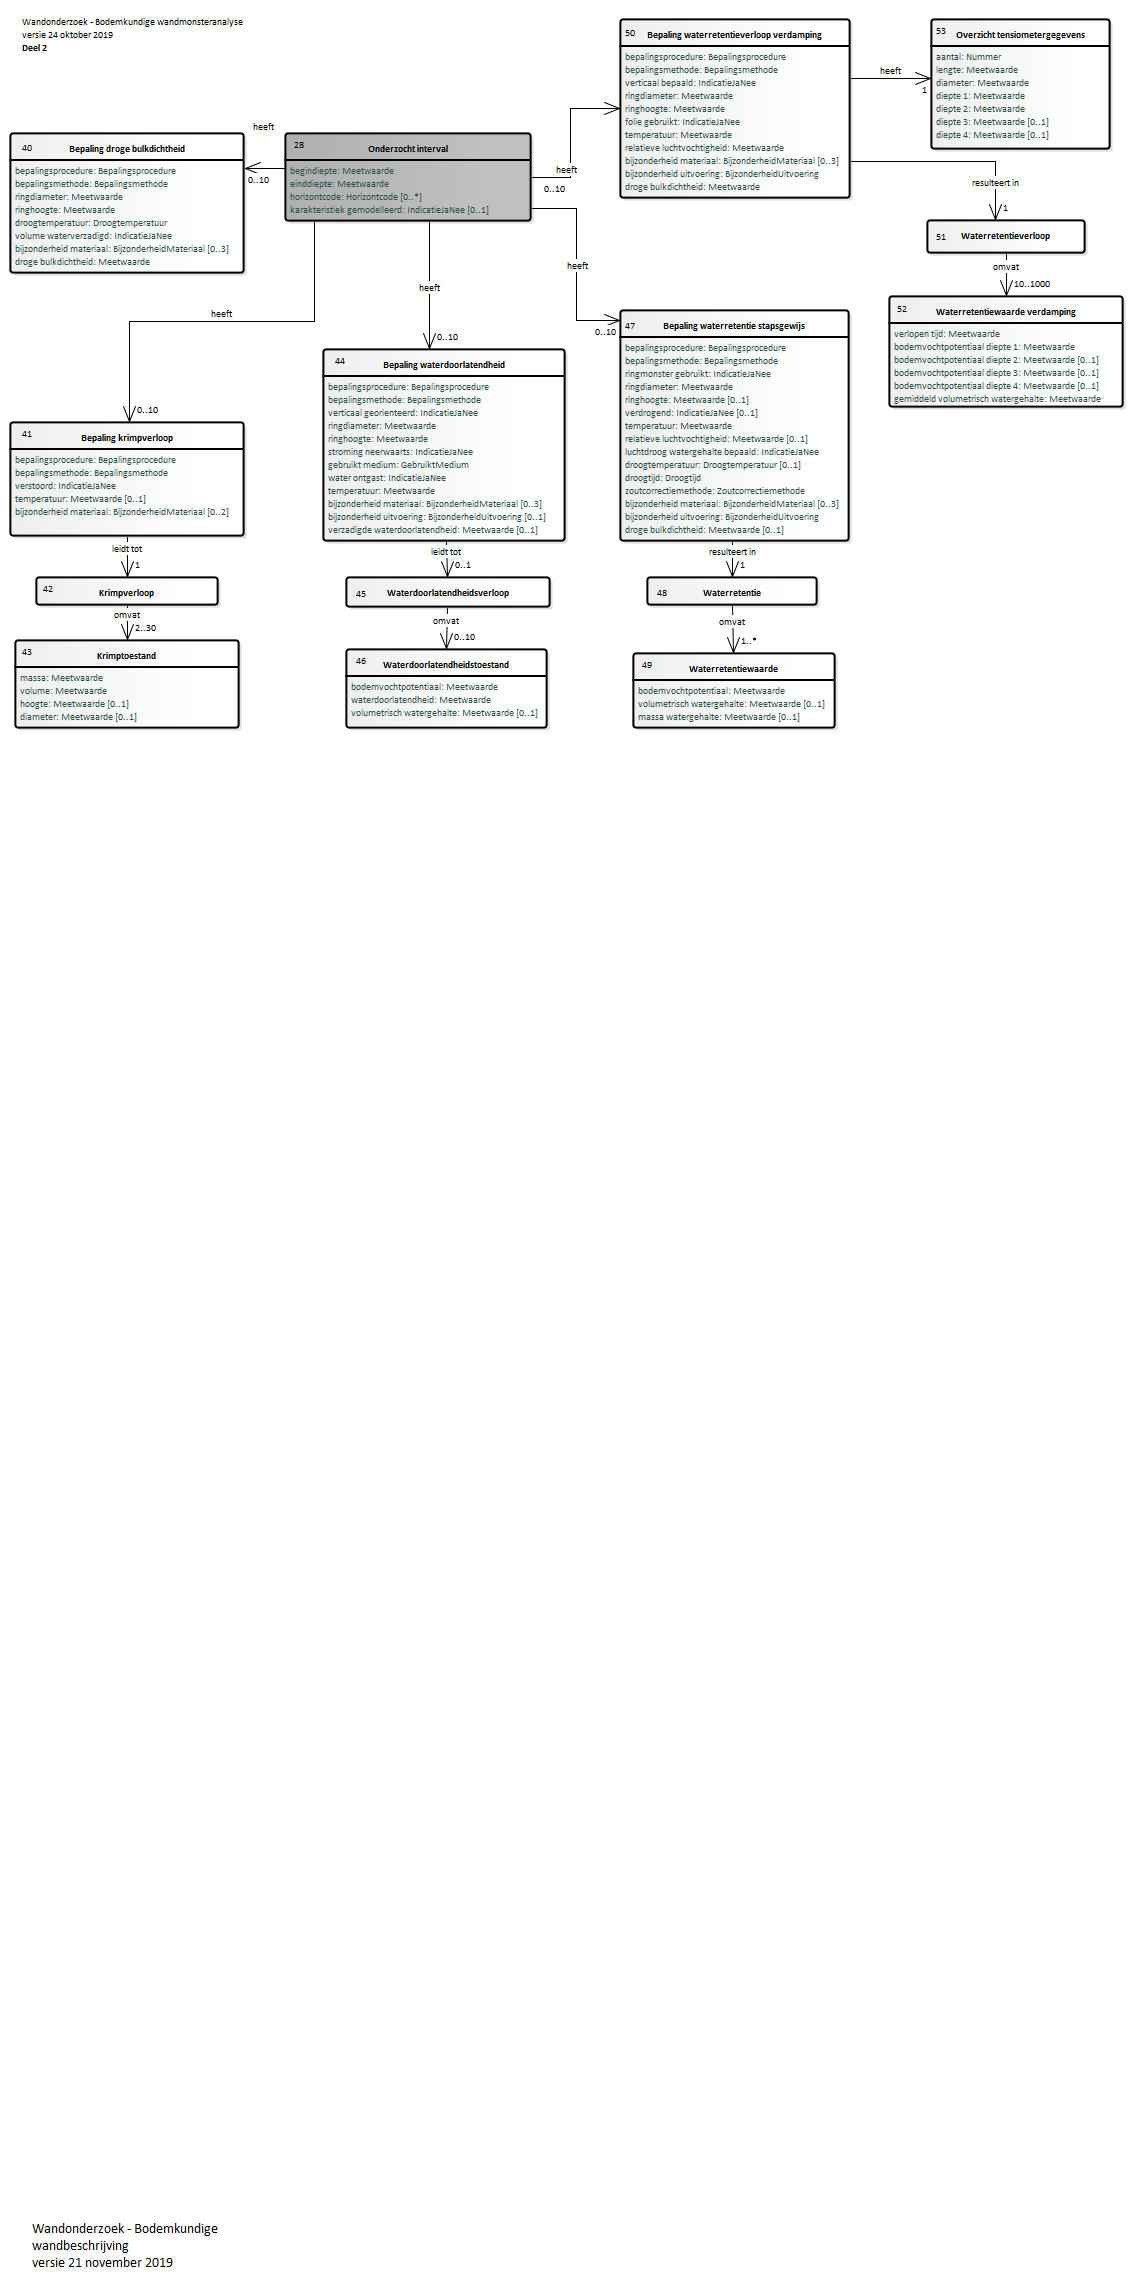
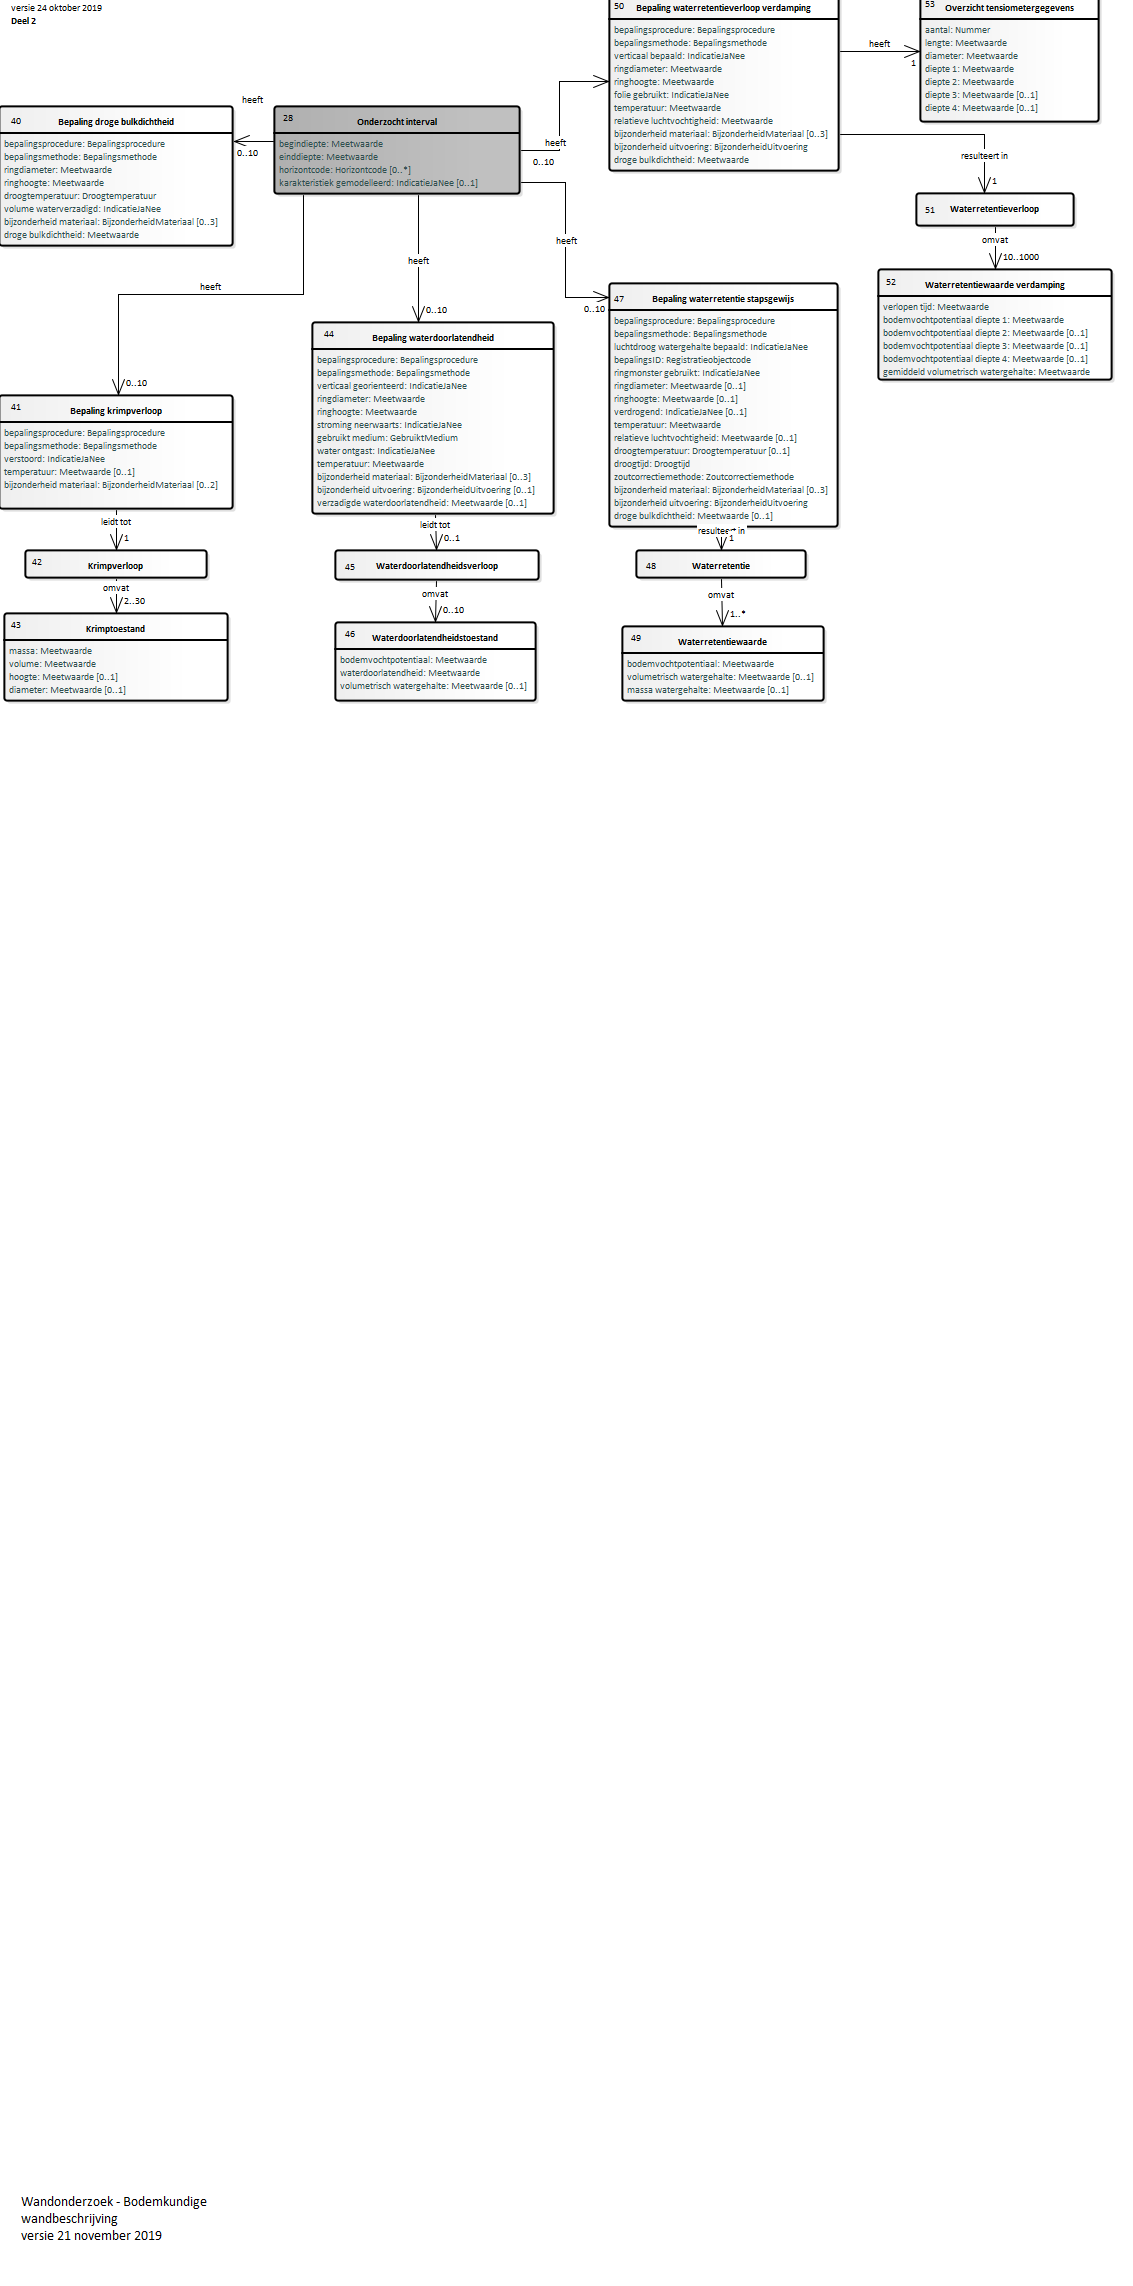
Conceptualmodel-BodemkundigwandonderzoekSFR-1.92versie27nov2019-3-20191127-20200128-182809

diff --git a/data/SFR-cat.msword.html b/data/SFR-cat.msword.html
@@ -13,7 +13,7 @@
    <body>
       <p>Conceptual model/Bodemkundig wandonderzoek (SFR)/20191127</p>
       <p>Imvertor: 1.57.1</p>
-      <p>Model release: Conceptualmodel-BodemkundigwandonderzoekSFR-1.92versie27nov2019-3-20191127-20200127-170755</p>
+      <p>Model release: Conceptualmodel-BodemkundigwandonderzoekSFR-1.92versie27nov2019-3-20191127-20200128-182809</p>
       <hr>
       <section>
          <h1>Artikel 1 Definitie van registratieobject, entiteiten en attributen</h1>
@@ -69,21 +69,21 @@
                </div>
                <div class="imageinfo overview"><img src="Images/EAID_2E9B0773_D299_49e6_BEBA_866A5B1961C2.png" usemap="#imagemap-EAID_2E9B0773_D299_49e6_BEBA_866A5B1961C2" alt="Diagram "><map name="imagemap-EAID_2E9B0773_D299_49e6_BEBA_866A5B1961C2">
                      <area shape="rect" alt="Wandmonsteranalyse" coords="309,-12,454,16" href="#graph_EAID_DC3E6339_1B2C_482c_AB74_881D1281A2EC">
-                     <area shape="rect" alt="Krimptoestand" coords="4,613,228,701" href="#graph_EAID_ABD5754F_2F97_48b5_B6AA_798E8E996A1B">
-                     <area shape="rect" alt="Krimpverloop" coords="25,550,207,578" href="#graph_EAID_368A7E5B_2AC2_4377_898A_204592B121EE">
-                     <area shape="rect" alt="Bepaling krimpverloop" coords="-1,395,240,496" href="#graph_EAID_FE20ED5D_F749_4cbf_A3F0_622FD6CE25DE">
-                     <area shape="rect" alt="Waterdoorlatendheidstoestand" coords="335,622,549,701" href="#graph_EAID_B49C8011_2704_45aa_B634_D2A7C3DBA664">
-                     <area shape="rect" alt="Waterdoorlatendheidsverloop" coords="335,550,539,580" href="#graph_EAID_7E57EB8B_0FFF_4b51_8B5A_AE9275E95298">
-                     <area shape="rect" alt="Waterretentiewaarde" coords="622,626,836,701" href="#graph_EAID_F02CB409_6369_43fa_851D_041176F3D170">
-                     <area shape="rect" alt="Waterretentie" coords="636,550,806,578" href="#graph_EAID_D23C916F_2BD4_4ea8_8084_CD4A129DC709">
-                     <area shape="rect" alt="Overzicht tensiometergegevens" coords="920,-8,1099,122" href="#graph_EAID_C8F6BEB6_3483_4781_A0FC_156AA99B7B0C">
-                     <area shape="rect" alt="Waterretentiewaarde verdamping" coords="878,269,1112,380" href="#graph_EAID_E568963F_D23E_4b85_AE99_F8FF7B47842B">
-                     <area shape="rect" alt="Waterretentieverloop" coords="916,193,1074,226" href="#graph_EAID_2DFF99AA_EEBB_4f93_BFBE_9601B723031A">
-                     <area shape="rect" alt="Bepaling waterretentieverloop verdamping" coords="609,-8,850,171" href="#graph_EAID_49AD3898_158D_47c7_B1AF_C839D2CB7B68">
-                     <area shape="rect" alt="Bepaling waterretentie stapsgewijs" coords="609,283,850,514" href="#graph_EAID_BAE772BD_B71F_4124_98FC_F7EF5E68BCBF">
-                     <area shape="rect" alt="Bepaling waterdoorlatendheid" coords="312,322,554,514" href="#graph_EAID_BCDCEB7C_2766_41e9_9958_35F5860BE49A">
-                     <area shape="rect" alt="Bepaling droge bulkdichtheid" coords="-1,106,240,246" href="#graph_EAID_A1E3A70D_62A1_406f_8D49_F395104462BB">
-                     <area shape="rect" alt="Onderzocht interval" coords="274,106,520,194" href="#graph_EAID_A420FBE3_89CE_466c_875A_7F10AD21E90D"></map><p><b>Domeinmodel BRO SFR Bodemkundige analyses deel 2 1.91</b></p>
+                     <area shape="rect" alt="Krimptoestand" coords="-7,586,217,674" href="#graph_EAID_ABD5754F_2F97_48b5_B6AA_798E8E996A1B">
+                     <area shape="rect" alt="Krimpverloop" coords="14,523,196,551" href="#graph_EAID_368A7E5B_2AC2_4377_898A_204592B121EE">
+                     <area shape="rect" alt="Bepaling krimpverloop" coords="-12,368,229,469" href="#graph_EAID_FE20ED5D_F749_4cbf_A3F0_622FD6CE25DE">
+                     <area shape="rect" alt="Waterdoorlatendheidstoestand" coords="324,595,538,674" href="#graph_EAID_B49C8011_2704_45aa_B634_D2A7C3DBA664">
+                     <area shape="rect" alt="Waterdoorlatendheidsverloop" coords="324,523,528,553" href="#graph_EAID_7E57EB8B_0FFF_4b51_8B5A_AE9275E95298">
+                     <area shape="rect" alt="Waterretentiewaarde" coords="611,599,825,674" href="#graph_EAID_F02CB409_6369_43fa_851D_041176F3D170">
+                     <area shape="rect" alt="Waterretentie" coords="625,523,795,551" href="#graph_EAID_D23C916F_2BD4_4ea8_8084_CD4A129DC709">
+                     <area shape="rect" alt="Overzicht tensiometergegevens" coords="909,-35,1088,95" href="#graph_EAID_C8F6BEB6_3483_4781_A0FC_156AA99B7B0C">
+                     <area shape="rect" alt="Waterretentiewaarde verdamping" coords="867,242,1101,353" href="#graph_EAID_E568963F_D23E_4b85_AE99_F8FF7B47842B">
+                     <area shape="rect" alt="Waterretentieverloop" coords="905,166,1063,199" href="#graph_EAID_2DFF99AA_EEBB_4f93_BFBE_9601B723031A">
+                     <area shape="rect" alt="Bepaling waterretentieverloop verdamping" coords="598,-35,839,144" href="#graph_EAID_49AD3898_158D_47c7_B1AF_C839D2CB7B68">
+                     <area shape="rect" alt="Bepaling waterretentie stapsgewijs" coords="598,256,839,500" href="#graph_EAID_BAE772BD_B71F_4124_98FC_F7EF5E68BCBF">
+                     <area shape="rect" alt="Bepaling waterdoorlatendheid" coords="301,295,543,487" href="#graph_EAID_BCDCEB7C_2766_41e9_9958_35F5860BE49A">
+                     <area shape="rect" alt="Bepaling droge bulkdichtheid" coords="-12,79,229,219" href="#graph_EAID_A1E3A70D_62A1_406f_8D49_F395104462BB">
+                     <area shape="rect" alt="Onderzocht interval" coords="263,79,509,167" href="#graph_EAID_A420FBE3_89CE_466c_875A_7F10AD21E90D"></map><p><b>Domeinmodel BRO SFR Bodemkundige analyses deel 2 1.91</b></p>
                </div>
                <div class="imageinfo overview"><img src="Images/EAID_972A998B_ADB0_41ea_A710_B847F84FEA66.png" usemap="#imagemap-EAID_972A998B_ADB0_41ea_A710_B847F84FEA66" alt="Diagram "><map name="imagemap-EAID_972A998B_ADB0_41ea_A710_B847F84FEA66">
                      <area shape="rect" alt="Wandmonsteranalyse" coords="259,10,505,50" href="#graph_EAID_DC3E6339_1B2C_482c_AB74_881D1281A2EC">
@@ -18058,7 +18058,7 @@
                   <div class="imageinfo "><img src="Images/EAID_CFD7548D_F274_4398_8581_DF0FDD5EEFEB.png" usemap="#imagemap-EAID_CFD7548D_F274_4398_8581_DF0FDD5EEFEB" alt="Diagram "><map name="imagemap-EAID_CFD7548D_F274_4398_8581_DF0FDD5EEFEB">
                         <area shape="rect" alt="Waterretentiewaarde" coords="48,367,212,395" href="#graph_EAID_F02CB409_6369_43fa_851D_041176F3D170">
                         <area shape="rect" alt="Waterretentie" coords="59,290,201,318" href="#graph_EAID_D23C916F_2BD4_4ea8_8084_CD4A129DC709">
-                        <area shape="rect" alt="Bepaling waterretentie stapsgewijs" coords="10,10,250,241" href="#graph_EAID_BAE772BD_B71F_4124_98FC_F7EF5E68BCBF"></map><p><b>Bepaling waterretentie stapsgewijs</b></p>
+                        <area shape="rect" alt="Bepaling waterretentie stapsgewijs" coords="10,10,250,254" href="#graph_EAID_BAE772BD_B71F_4124_98FC_F7EF5E68BCBF"></map><p><b>Bepaling waterretentie stapsgewijs</b></p>
                   </div>
                   <table style="width: 100%;">
                      <colgroup style="width: 30%;"></colgroup>
@@ -18211,6 +18211,103 @@
                      </table>
                      
                   </section>
+                  <section id="detail_attribute_DomeinmodelBROSFR_BepalingWaterretentieStapsgewijs_luchtdroogWatergehalteBepaald">
+                     <h4>  luchtdroog watergehalte bepaald</h4>
+                     
+                     <table style="width: 100%;">
+                        <colgroup style="width: 30%;"></colgroup>
+                        <colgroup style="width: 70%;"></colgroup>
+                        <tbody>
+                           <tr>
+                              <th>Type gegeven</th>
+                              <td>Attribuut van Bepaling waterretentie stapsgewijs</td>
+                           </tr>
+                           <tr>
+                              <th>Definitie</th>
+                              <td>
+                                 
+                                 <p>De aanduiding die aangeeft of het luchtdroog watergehalte is bepaald.</p>
+                                 
+                              </td>
+                           </tr>
+                           <tr>
+                              <th>Juridische status</th>
+                              <td>Authentiek</td>
+                           </tr>
+                           <tr>
+                              <th>Kardinaliteit</th>
+                              <td>1</td>
+                           </tr>
+                           <tr>
+                              <th>Domein</th>
+                              <td></td>
+                           </tr>
+                           <tr>
+                              <th>&nbsp;&nbsp;Naam</th>
+                              <td>IndicatieJaNee</td>
+                           </tr>
+                           <tr>
+                              <th>&nbsp;&nbsp;Type</th>
+                              <td>Waardelijst niet uitbreidbaar</td>
+                           </tr>
+                           <tr>
+                              <th>Toelichting</th>
+                              <td>
+                                 
+                                 <p>Voor het modelleren van de waterretentiekarakteristiek kan als extra gegeven het watergehalte
+                                    worden bepaald van een monster dat volledig is uitgedroogd. Het monster wordt na het
+                                    uitvoeren van de overige metingen in een droogbak zonder deksel in een stellingskast
+                                    geplaatst tot het materiaal volledig uitgedroogd is en de massa niet meer verandert.
+                                    Daarna wordt het gewogen en na drogen in de oven nogmaals gewogen. Uit het massaverlies
+                                    wordt het watergehalte berekend. Het luchtdroog watergehalte wordt in het resultaat
+                                    opgenomen als het watergehalte bij een bodemvochtpotentiaal van minus 10^6.
+                                 </p>
+                                 
+                              </td>
+                           </tr>
+                        </tbody>
+                     </table>
+                     
+                  </section>
+                  <section id="detail_attribute_DomeinmodelBROSFR_BepalingWaterretentieStapsgewijs_bepalingsID">
+                     <h4>  bepalingsID</h4>
+                     
+                     <table style="width: 100%;">
+                        <colgroup style="width: 30%;"></colgroup>
+                        <colgroup style="width: 70%;"></colgroup>
+                        <tbody>
+                           <tr>
+                              <th>Type gegeven</th>
+                              <td>Attribuut van Bepaling waterretentie stapsgewijs</td>
+                           </tr>
+                           <tr>
+                              <th>Juridische status</th>
+                              <td>Authentiek</td>
+                           </tr>
+                           <tr>
+                              <th>Kardinaliteit</th>
+                              <td>1</td>
+                           </tr>
+                           <tr>
+                              <th>Domein</th>
+                              <td></td>
+                           </tr>
+                           <tr>
+                              <th>&nbsp;&nbsp;Naam</th>
+                              <td>Registratieobjectcode</td>
+                           </tr>
+                           <tr>
+                              <th>&nbsp;&nbsp;Type</th>
+                              <td>Code</td>
+                           </tr>
+                           <tr>
+                              <th>&nbsp;&nbsp;Opbouw</th>
+                              <td></td>
+                           </tr>
+                        </tbody>
+                     </table>
+                     
+                  </section>
                   <section id="detail_attribute_DomeinmodelBROSFR_BepalingWaterretentieStapsgewijs_ringmonsterGebruikt">
                      <h4>  ringmonster gebruikt</h4>
                      
@@ -18291,7 +18388,7 @@
                            </tr>
                            <tr>
                               <th>Kardinaliteit</th>
-                              <td>1</td>
+                              <td>0..1</td>
                            </tr>
                            <tr>
                               <th>Domein</th>
@@ -18307,11 +18404,11 @@
                            </tr>
                            <tr>
                               <th>&nbsp;&nbsp;Eenheid</th>
-                              <td>cm (centimeter)</td>
+                              <td>cm </td>
                            </tr>
                            <tr>
                               <th>&nbsp;&nbsp;Waardebereik</th>
-                              <td>1 tot 50</td>
+                              <td>vanaf 0</td>
                            </tr>
                            <tr>
                               <th>Regels</th>
@@ -18398,7 +18495,7 @@
                            </tr>
                            <tr>
                               <th>&nbsp;&nbsp;Waardebereik</th>
-                              <td>1 tot 50</td>
+                              <td>vanaf 0</td>
                            </tr>
                            <tr>
                               <th>Regels</th>
@@ -18659,64 +18756,6 @@
                               <td>
                                  
                                  <p>Voor IMBRO/A-gegevens mag de waarde ontbreken.</p>
-                                 
-                              </td>
-                           </tr>
-                        </tbody>
-                     </table>
-                     
-                  </section>
-                  <section id="detail_attribute_DomeinmodelBROSFR_BepalingWaterretentieStapsgewijs_luchtdroogWatergehalteBepaald">
-                     <h4>  luchtdroog watergehalte bepaald</h4>
-                     
-                     <table style="width: 100%;">
-                        <colgroup style="width: 30%;"></colgroup>
-                        <colgroup style="width: 70%;"></colgroup>
-                        <tbody>
-                           <tr>
-                              <th>Type gegeven</th>
-                              <td>Attribuut van Bepaling waterretentie stapsgewijs</td>
-                           </tr>
-                           <tr>
-                              <th>Definitie</th>
-                              <td>
-                                 
-                                 <p>De aanduiding die aangeeft of het luchtdroog watergehalte is bepaald.</p>
-                                 
-                              </td>
-                           </tr>
-                           <tr>
-                              <th>Juridische status</th>
-                              <td>Authentiek</td>
-                           </tr>
-                           <tr>
-                              <th>Kardinaliteit</th>
-                              <td>1</td>
-                           </tr>
-                           <tr>
-                              <th>Domein</th>
-                              <td></td>
-                           </tr>
-                           <tr>
-                              <th>&nbsp;&nbsp;Naam</th>
-                              <td>IndicatieJaNee</td>
-                           </tr>
-                           <tr>
-                              <th>&nbsp;&nbsp;Type</th>
-                              <td>Waardelijst niet uitbreidbaar</td>
-                           </tr>
-                           <tr>
-                              <th>Toelichting</th>
-                              <td>
-                                 
-                                 <p>Voor het modelleren van de waterretentiekarakteristiek kan als extra gegeven het watergehalte
-                                    worden bepaald van een monster dat volledig is uitgedroogd. Het monster wordt na het
-                                    uitvoeren van de overige metingen in een droogbak zonder deksel in een stellingskast
-                                    geplaatst tot het materiaal volledig uitgedroogd is en de massa niet meer verandert.
-                                    Daarna wordt het gewogen en na drogen in de oven nogmaals gewogen. Uit het massaverlies
-                                    wordt het watergehalte berekend. Het luchtdroog watergehalte wordt in het resultaat
-                                    opgenomen als het watergehalte bij een bodemvochtpotentiaal van minus 10^6.
-                                 </p>
                                  
                               </td>
                            </tr>
